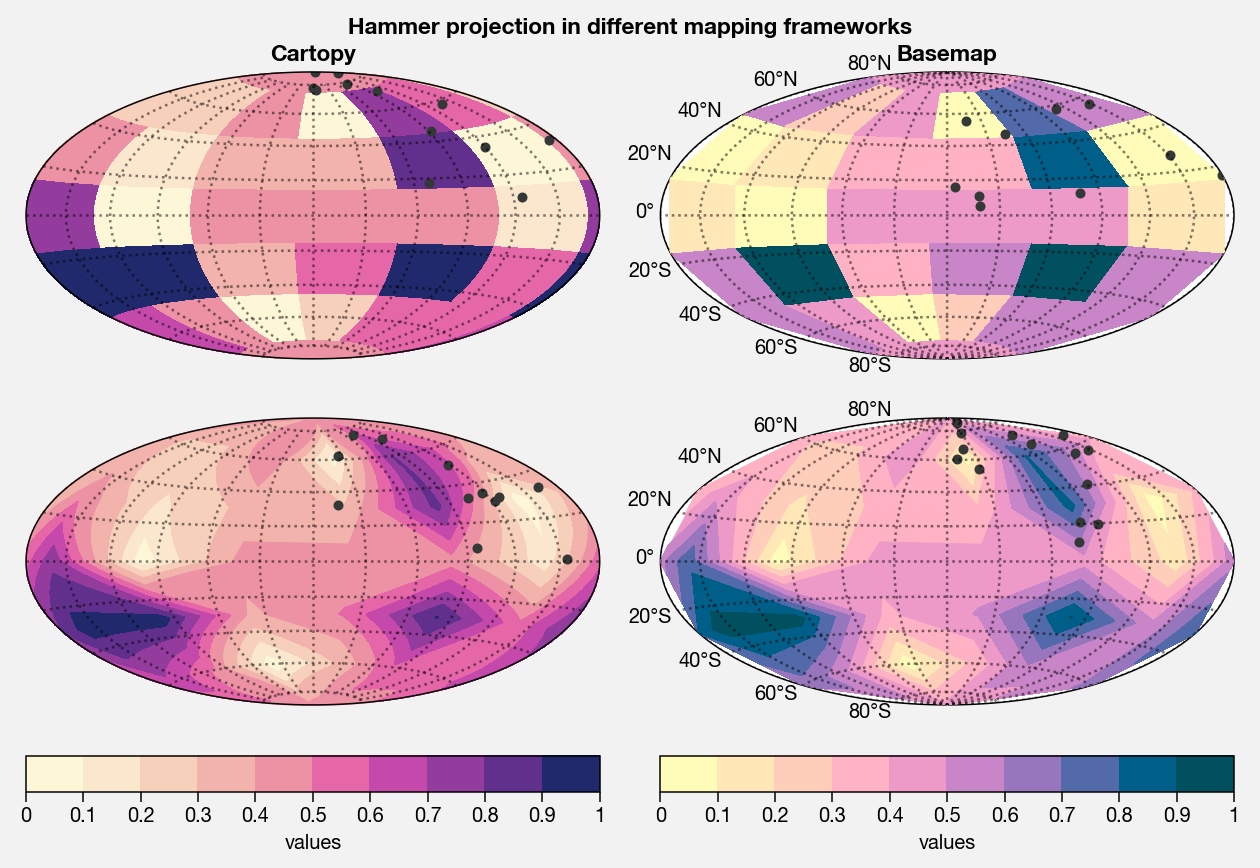
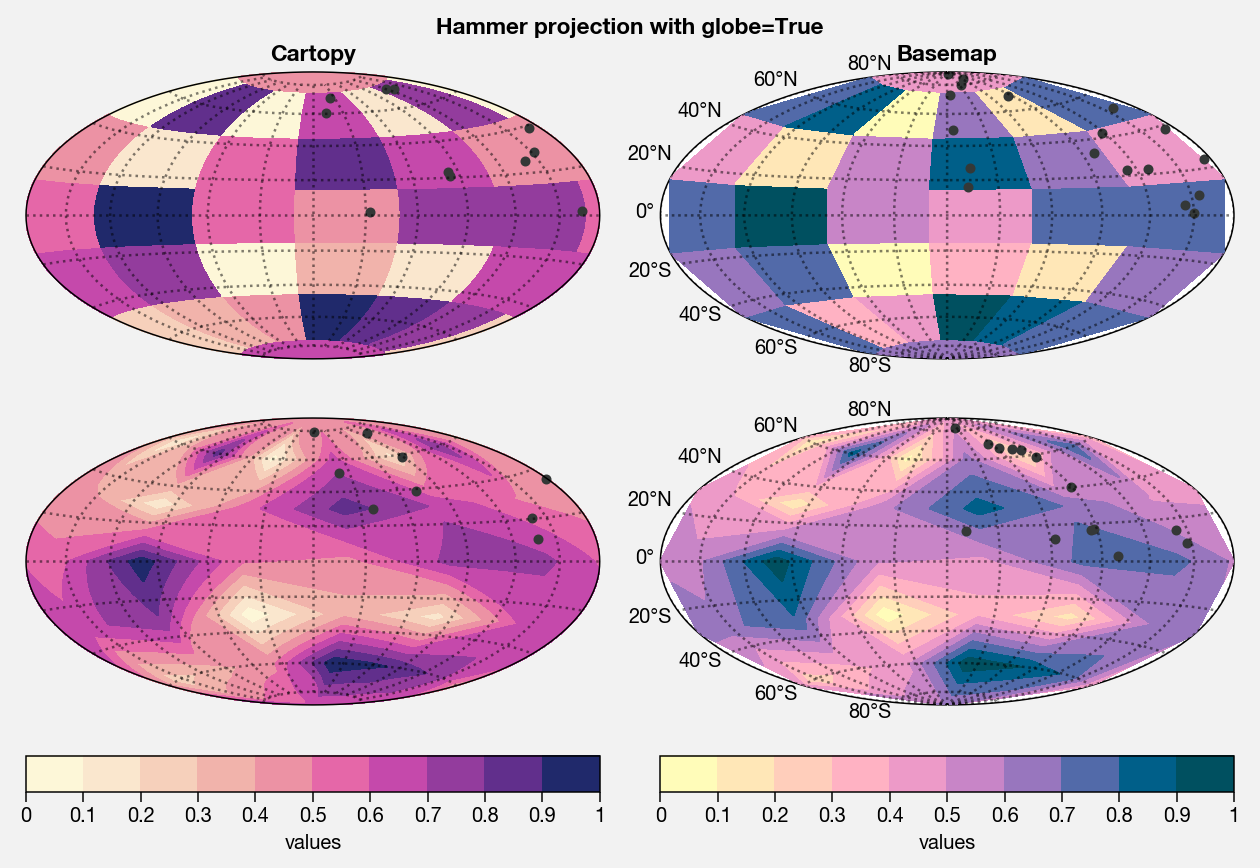
Update showcase

diff --git a/docs/showcase.rst b/docs/showcase.rst
@@ -1116,9 +1116,12 @@ disable its own “tight layout” feature. I am currently looking for a
 work-around.
 
 Anyway, the below examples show how to plot geophysical data with
-ProPlot. Use the ``globe`` keyword arg with commands like
-`~matplotlib.axes.Axes.contourf` to ensure global data coverage. This
-is powered by the `~proplot.axes.cartopy_gridfix_wrapper` and
+ProPlot. Note that longitudes are cyclically permuted so that the
+“center” of your data aligns with the central longitude of the
+projection! You can also use the ``globe`` keyword arg with commands
+like `~matplotlib.axes.Axes.contourf` to ensure global data coverage.
+These featuers are powered by the
+`~proplot.axes.cartopy_gridfix_wrapper` and
 `~proplot.axes.basemap_gridfix_wrapper` wrappers.
 
 .. code:: ipython3
@@ -1134,8 +1137,8 @@ is powered by the `~proplot.axes.cartopy_gridfix_wrapper` and
                                # basemap=False,
                                basemap={(1,3):False, (2,4):True},
                                )
-        offset = 20
-        x = plot.arange(-180+offset,180+offset-1,60)
+        offset = -40
+        x = plot.arange(0+offset, 360+offset-1, 60)
         y = plot.arange(-60,60+1,30)
         data = np.random.rand(len(y), len(x))
         for ax,p,pcolor,basemap in zip(axs,range(4),[1,1,0,0],[0,1,0,1]):
@@ -1144,12 +1147,12 @@ is powered by the `~proplot.axes.cartopy_gridfix_wrapper` and
             levels = [0, .3, .5, .7, .9, 1]
             levels = np.linspace(0,1,11)
             if pcolor:
-                m = ax.pcolor(x, y, data, levels=levels, cmap=cmap, extend='neither', globe=True)
+                m = ax.pcolor(x, y, data, levels=levels, cmap=cmap, extend='neither', globe=globe)
                 ax.scatter(np.random.rand(5,5)*180, 180*np.random.rand(5,5), color='charcoal')
             if not pcolor:
-                m = ax.contourf(x, y, data, levels=levels, cmap=cmap, extend='neither', globe=True)
+                m = ax.contourf(x, y, data, levels=levels, cmap=cmap, extend='neither', globe=globe)
                 ax.scatter(np.random.rand(5,5)*180, 180*np.random.rand(5,5), color='charcoal')
-            ax.format(suptitle='Hammer projection in different mapping frameworks', collabels=['Cartopy', 'Basemap'], labels=True)
+            ax.format(suptitle=f'Hammer projection with globe={globe}', collabels=['Cartopy', 'Basemap'], labels=True)
             if p<2:
                 c = f.bottompanel[p].colorbar(m, clabel='values', ctickminor=False)
 
